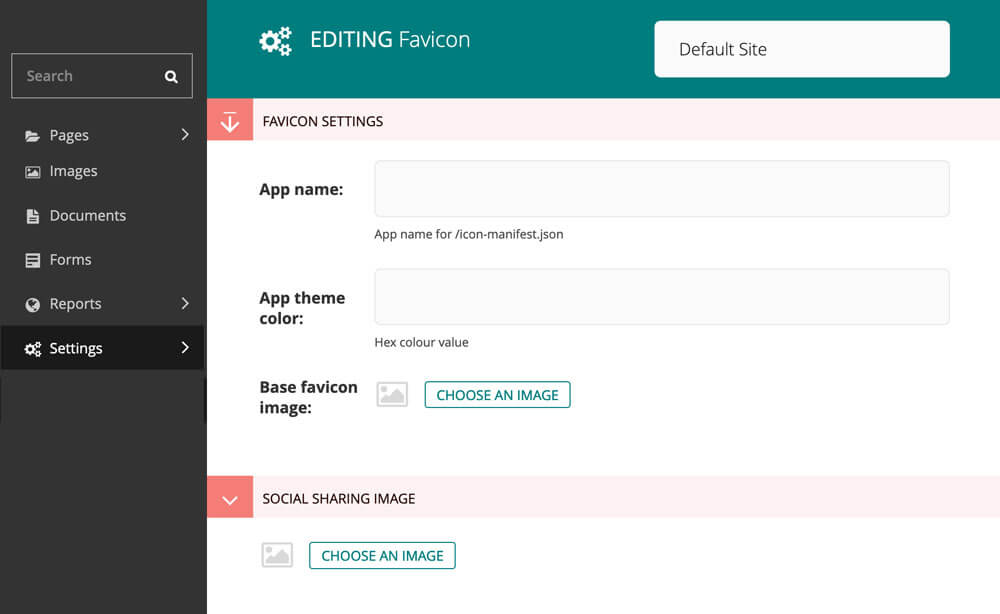
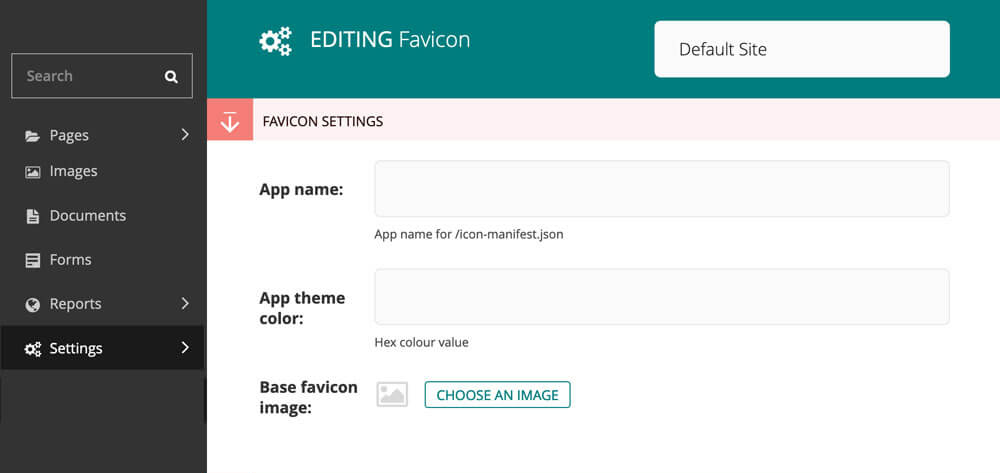
remove social sharing image

diff --git a/wagtail_favicon/models.py b/wagtail_favicon/models.py
@@ -74,16 +74,7 @@ class FaviconSettings(BaseSetting, FaviconRenditions):
     app_name = models.CharField(
         max_length=128,
         blank=True,
-        help_text='App name for /icon-manifest.json'
-    )
-
-    social_sharing_image = models.ForeignKey(
-        get_image_model_string(),
-        null=True,
-        blank=True,
-        on_delete=models.SET_NULL,
-        related_name='+',
-        help_text='A default image that wil display when a page is shared on social media'
+        help_text='App name for manifest.json'
     )
 
     panels = [
@@ -96,7 +87,6 @@ class FaviconSettings(BaseSetting, FaviconRenditions):
             heading="Favicon Settings",
             classname="collapsible"
         ),
-        ImageChooserPanel('social_sharing_image'),
     ]
 
     class Meta:

diff --git a/wagtail_favicon/migrations/0002_remove_social_sharing_image_setting.py b/wagtail_favicon/migrations/0002_remove_social_sharing_image_setting.py
@@ -1,0 +1,22 @@
+# Generated by Django 3.1.9 on 2021-05-04 23:47
+
+from django.db import migrations, models
+
+
+class Migration(migrations.Migration):
+
+    dependencies = [
+        ('wagtail_favicon', '0001_initial'),
+    ]
+
+    operations = [
+        migrations.RemoveField(
+            model_name='faviconsettings',
+            name='social_sharing_image',
+        ),
+        migrations.AlterField(
+            model_name='faviconsettings',
+            name='app_name',
+            field=models.CharField(blank=True, help_text='App name for manifest.json', max_length=128),
+        ),
+    ]

diff --git a/README.md b/README.md
@@ -21,6 +21,7 @@ poetry add wagtail-favicon
 ```
 INSTALLED_APPS = [
     #...
+    'wagtail.contrib.settings'  # <-- ensure you have wagtail settings loaded 
     'wagtail_favicon',
 ]
 ```
@@ -37,6 +38,8 @@ urlpatterns += [
 
     url(r'', include(favicon_urls)),  # <------ add urls to existing urls
 ]
+
+# note: newer versions of django may use `path` instead of `url`
 ```
 
 Once you've completed setup you will now be able to access the folloing urls:
